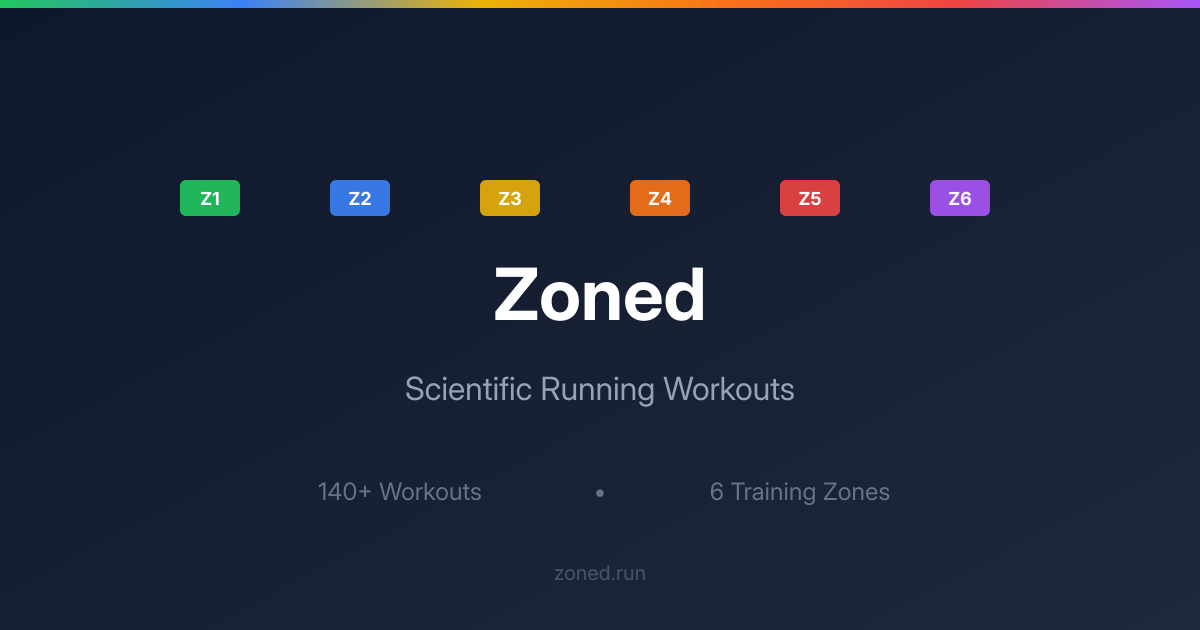
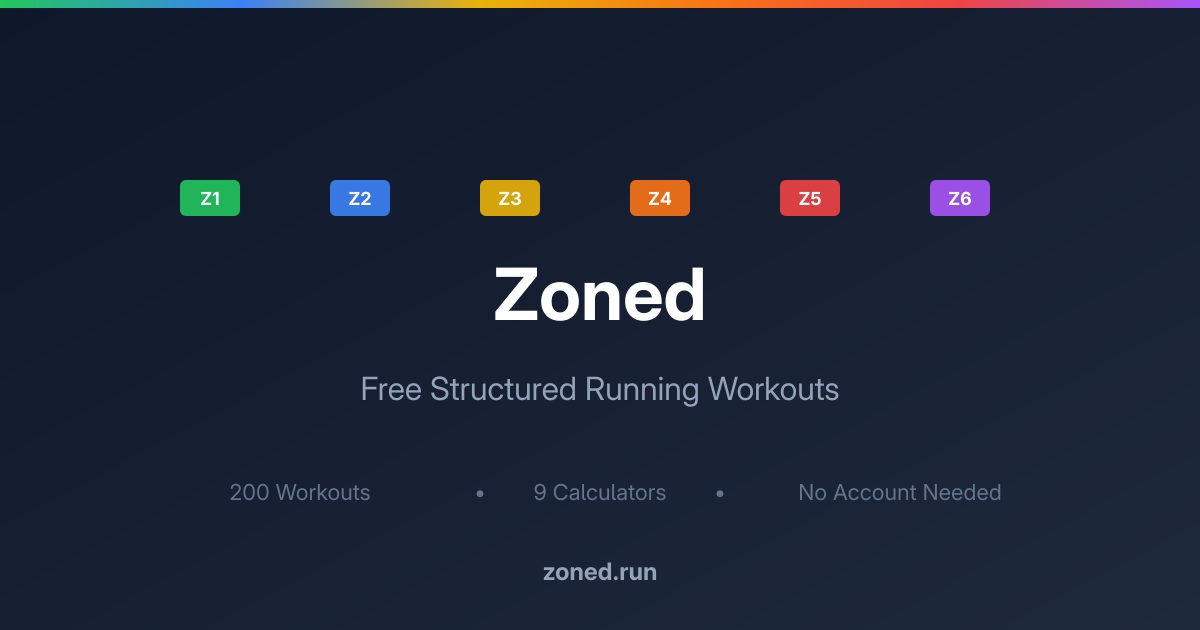
feat: update default OG image with current stats

diff --git a/scripts/generate-og-image.ts b/scripts/generate-og-image.ts
@@ -47,15 +47,17 @@ async function generateOgImage() {
       <text x="600" y="320" font-family="system-ui, sans-serif" font-size="72" font-weight="bold" fill="white" text-anchor="middle">Zoned</text>
 
       <!-- Subtitle -->
-      <text x="600" y="400" font-family="system-ui, sans-serif" font-size="32" fill="#94a3b8" text-anchor="middle">Scientific Running Workouts</text>
+      <text x="600" y="400" font-family="system-ui, sans-serif" font-size="32" fill="#94a3b8" text-anchor="middle">Free Structured Running Workouts</text>
 
       <!-- Stats -->
-      <text x="400" y="500" font-family="system-ui, sans-serif" font-size="24" fill="#64748b" text-anchor="middle">140+ Workouts</text>
-      <text x="600" y="500" font-family="system-ui, sans-serif" font-size="24" fill="#64748b" text-anchor="middle">•</text>
-      <text x="800" y="500" font-family="system-ui, sans-serif" font-size="24" fill="#64748b" text-anchor="middle">6 Training Zones</text>
+      <text x="300" y="500" font-family="system-ui, sans-serif" font-size="22" fill="#64748b" text-anchor="middle">200 Workouts</text>
+      <text x="480" y="500" font-family="system-ui, sans-serif" font-size="22" fill="#64748b" text-anchor="middle">•</text>
+      <text x="600" y="500" font-family="system-ui, sans-serif" font-size="22" fill="#64748b" text-anchor="middle">9 Calculators</text>
+      <text x="720" y="500" font-family="system-ui, sans-serif" font-size="22" fill="#64748b" text-anchor="middle">•</text>
+      <text x="900" y="500" font-family="system-ui, sans-serif" font-size="22" fill="#64748b" text-anchor="middle">No Account Needed</text>
 
       <!-- URL -->
-      <text x="600" y="580" font-family="system-ui, sans-serif" font-size="20" fill="#475569" text-anchor="middle">zoned.run</text>
+      <text x="600" y="580" font-family="system-ui, sans-serif" font-size="24" font-weight="bold" fill="#94a3b8" text-anchor="middle">zoned.run</text>
     </svg>
   `;
 
